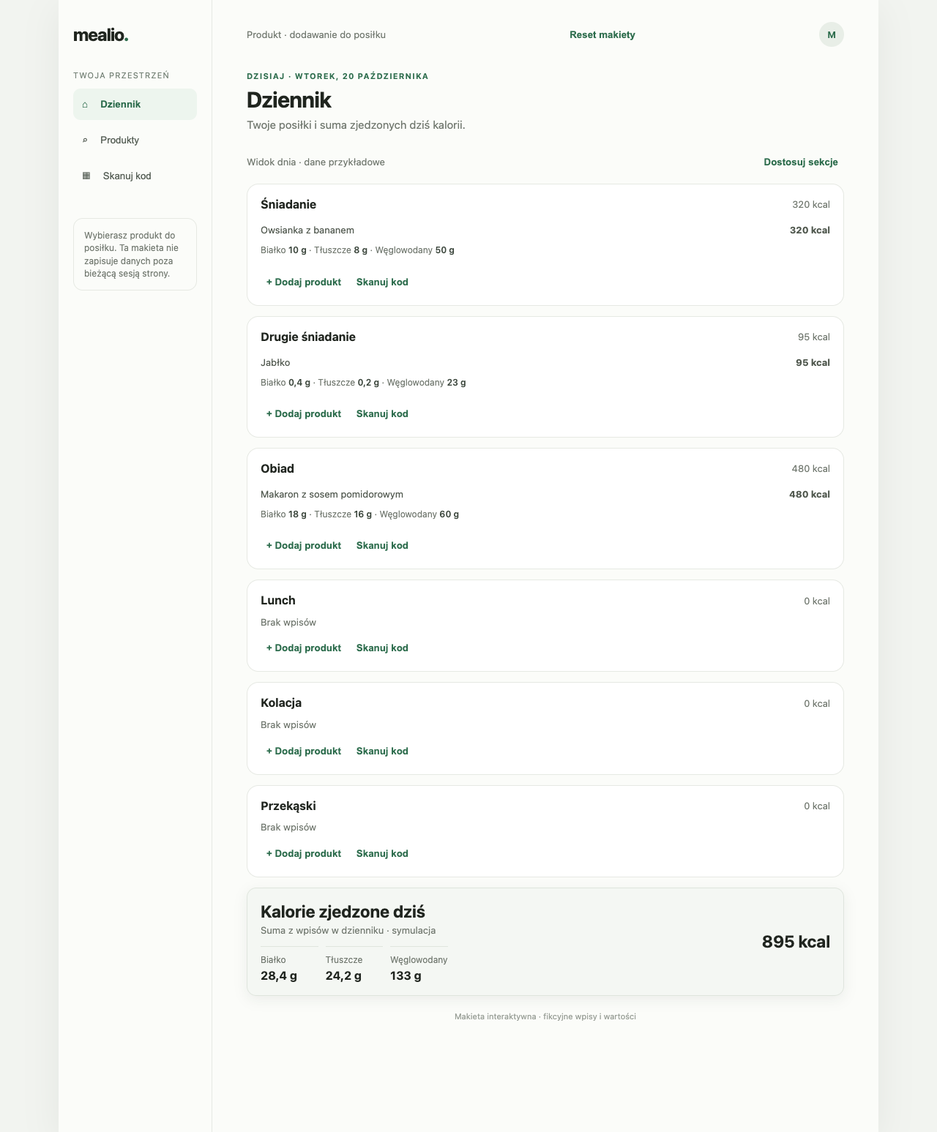
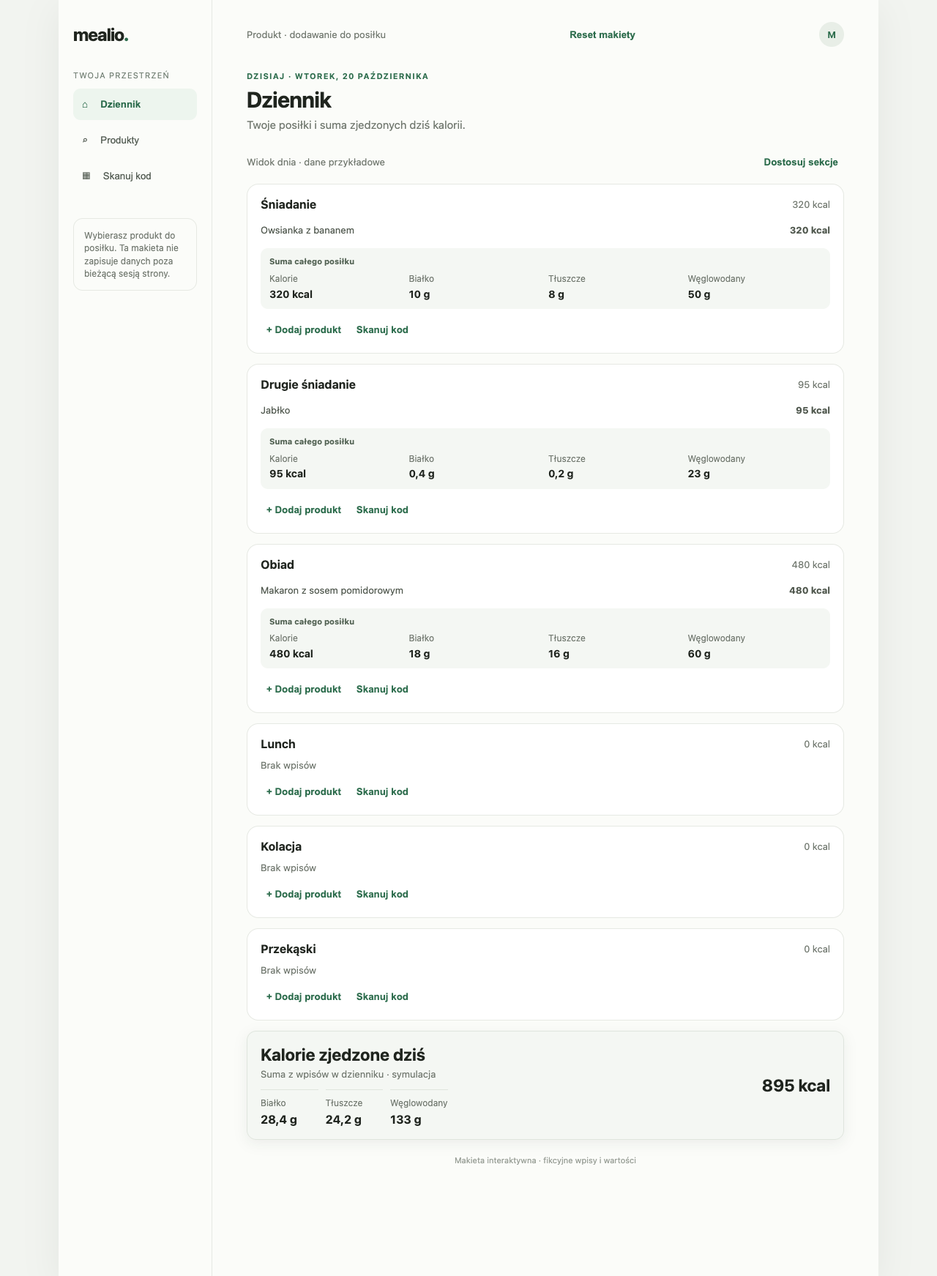
docs(e01): clarify meal nutrient subtotals

diff --git a/.ai/prototypes/discovery/e01-product-journeys/revision-002/index.html b/.ai/prototypes/discovery/e01-product-journeys/revision-002/index.html
@@ -4,7 +4,7 @@
 <meta charset="utf-8"><meta name="viewport" content="width=device-width,initial-scale=1">
 <title>Mealio — dziennik i produkty · makieta</title>
 <style>
-:root{--ink:#20251f;--muted:#71786f;--line:#e6e9e3;--paper:#fbfcf9;--green:#2c6c4c;--soft:#edf5ee;--orange:#fff2dd;--red:#9b4337}*{box-sizing:border-box}body{margin:0;background:#f2f4f0;color:var(--ink);font:15px/1.45 -apple-system,BlinkMacSystemFont,"Segoe UI",sans-serif}.app{max-width:1120px;min-height:100vh;margin:auto;display:grid;grid-template-columns:210px 1fr;background:var(--paper);box-shadow:0 12px 50px #17271912}.rail{padding:30px 20px;border-right:1px solid var(--line)}.logo{font-size:24px;font-weight:750;letter-spacing:-1px}.logo b{color:var(--green)}.tag{font-size:11px;color:#738075;letter-spacing:.1em;text-transform:uppercase;margin:30px 0 10px}.nav{display:grid;gap:6px}.nav button{border:0;text-align:left;background:transparent;padding:12px;border-radius:10px;color:#555e55;cursor:pointer}.nav button.active,.nav button:hover{background:var(--soft);color:var(--green);font-weight:650}.aside{margin-top:36px;border:1px solid var(--line);border-radius:13px;padding:14px;color:var(--muted);font-size:12px}.main{padding:30px 42px 130px;max-width:900px;width:100%;margin:0 auto}.top{display:flex;justify-content:space-between;align-items:center;color:var(--muted);font-size:13px;margin-bottom:32px}.avatar{width:34px;height:34px;border-radius:50%;background:#e8eee7;display:grid;place-items:center;color:var(--green);font-weight:700}.eyebrow{font-size:11px;font-weight:700;letter-spacing:.1em;color:var(--green);text-transform:uppercase}.title{font-size:30px;line-height:1.15;letter-spacing:-.7px;margin:7px 0}.sub{color:var(--muted);margin:0 0 24px}.card{background:#fff;border:1px solid var(--line);border-radius:16px;padding:20px;margin:14px 0}.row{display:flex;align-items:center;justify-content:space-between;gap:16px}.choices{display:grid;grid-template-columns:1fr 1fr;gap:12px;margin:22px 0}.choice{padding:20px;border:1px solid var(--line);border-radius:15px;background:#fff;text-align:left;cursor:pointer}.choice:hover{border-color:#9dbba2;box-shadow:0 5px 20px #1c39220d}.icon{font-size:23px}.choice strong{display:block;margin:10px 0 3px;font-size:16px}.choice span:last-child,.small{font-size:13px;color:var(--muted)}input,select{font:inherit;border:1px solid #dfe4dd;border-radius:9px;padding:12px;background:#fff;color:var(--ink);width:100%;outline:none}input:focus,select:focus{border-color:#78a186;box-shadow:0 0 0 3px #2c6c4c18}.search{position:relative;margin:18px 0}.search input{padding-left:42px}.search:before{content:'⌕';position:absolute;left:14px;top:7px;font-size:24px;color:#778078}.pill{display:inline-block;background:#f1f3f0;border-radius:99px;padding:4px 9px;font-size:11px;color:#697268;margin:3px}.pill.green{background:var(--soft);color:var(--green)}.pill.amber{background:var(--orange);color:#875a1f}.product{display:grid;grid-template-columns:46px 1fr auto;align-items:center;gap:12px;padding:14px 2px;border-bottom:1px solid #eef0ec}.product:last-child{border:0}.food{width:44px;height:44px;border-radius:11px;background:#f4f1e8;display:grid;place-items:center;font-size:23px}.btn{border:0;border-radius:9px;padding:11px 15px;background:var(--green);color:#fff;font-weight:650;cursor:pointer}.btn:hover{filter:brightness(.94)}.btn.secondary{background:#f0f3ef;color:var(--ink)}.btn.text{background:transparent;color:var(--green);padding:8px}.btn.danger{background:#fff0ed;color:var(--red)}.actions{display:flex;gap:9px;flex-wrap:wrap;margin-top:18px}.field{margin:14px 0}.field label{font-size:12px;font-weight:650;display:block;margin-bottom:6px}.grid2{display:grid;grid-template-columns:1fr 1fr;gap:12px}.notice{border-radius:11px;padding:13px 15px;background:#f1f5f0;color:#3d6149;font-size:13px;margin:14px 0}.notice.warn{background:#fff5e7;color:#845a22}.notice.error{background:#fff0ed;color:#984c3f}.sectiontitle{font-size:16px;font-weight:700;margin:22px 0 7px}.divider{height:1px;background:var(--line);margin:18px 0}.tagline{color:var(--muted);font-size:12px}.steps{display:flex;gap:7px;margin:18px 0}.step{font-size:11px;padding:6px 10px;border-radius:99px;background:#f0f2ef;color:#737b71}.step.on{background:var(--soft);color:var(--green);font-weight:650}.back{border:0;background:none;color:var(--muted);padding:0;margin:0 0 18px;cursor:pointer}.modalback{position:fixed;inset:0;background:#18251d66;display:grid;place-items:center;padding:20px}.modal{max-width:490px;width:100%;background:white;border-radius:16px;padding:23px;box-shadow:0 20px 60px #11221630}.modal h2{margin:0 0 7px}.footer{font-size:11px;color:#999f97;text-align:center;padding:20px}.meal-card{padding:16px 18px}.meal-head{display:flex;align-items:center;justify-content:space-between;gap:10px}.meal-head h2{font-size:16px;margin:0}.meal-items{padding:8px 0 3px}.diary-item{display:flex;justify-content:space-between;padding:6px 0;color:#50584e;font-size:13px}.meal-actions{display:flex;gap:5px;margin-top:8px}.daily-summary{position:relative;margin-top:14px;display:flex;align-items:center;justify-content:space-between;border:1px solid #dfe5dd;border-radius:13px;background:#f4f7f3f5;backdrop-filter:blur(8px);padding:15px 18px;box-shadow:0 5px 18px #12201612}.daily-summary strong{font-size:23px}.daily-macros{display:grid;grid-template-columns:repeat(3,minmax(0,1fr));gap:10px;margin-top:12px}.daily-macro{border-top:1px solid #dfe5dd;padding-top:9px;color:var(--muted);font-size:12px}.daily-macro strong{display:block;color:var(--ink);font-size:16px;margin-top:2px}.meal-macros{font-size:12px;color:var(--muted);padding:3px 0 8px}.meal-macros strong{color:#39443a;font-weight:600}.settings-row{display:grid;grid-template-columns:1fr auto;gap:8px;margin:9px 0}.settings-row button{padding:8px}.settings-note{font-size:12px;color:var(--muted);margin-top:10px}.hidden{display:none!important}@media(max-width:720px){.app{display:block}.rail{display:none}.main{padding:20px 16px 130px}.daily-summary{padding:12px 14px}.daily-macros{gap:6px}.daily-macro{font-size:11px}.daily-macro strong{font-size:14px}.daily-summary strong{font-size:20px}.title{font-size:27px}.choices{grid-template-columns:1fr}.grid2{grid-template-columns:1fr}.product{grid-template-columns:42px 1fr}.product .btn{grid-column:2;justify-self:start}.top{margin-bottom:25px}}
+:root{--ink:#20251f;--muted:#71786f;--line:#e6e9e3;--paper:#fbfcf9;--green:#2c6c4c;--soft:#edf5ee;--orange:#fff2dd;--red:#9b4337}*{box-sizing:border-box}body{margin:0;background:#f2f4f0;color:var(--ink);font:15px/1.45 -apple-system,BlinkMacSystemFont,"Segoe UI",sans-serif}.app{max-width:1120px;min-height:100vh;margin:auto;display:grid;grid-template-columns:210px 1fr;background:var(--paper);box-shadow:0 12px 50px #17271912}.rail{padding:30px 20px;border-right:1px solid var(--line)}.logo{font-size:24px;font-weight:750;letter-spacing:-1px}.logo b{color:var(--green)}.tag{font-size:11px;color:#738075;letter-spacing:.1em;text-transform:uppercase;margin:30px 0 10px}.nav{display:grid;gap:6px}.nav button{border:0;text-align:left;background:transparent;padding:12px;border-radius:10px;color:#555e55;cursor:pointer}.nav button.active,.nav button:hover{background:var(--soft);color:var(--green);font-weight:650}.aside{margin-top:36px;border:1px solid var(--line);border-radius:13px;padding:14px;color:var(--muted);font-size:12px}.main{padding:30px 42px 130px;max-width:900px;width:100%;margin:0 auto}.top{display:flex;justify-content:space-between;align-items:center;color:var(--muted);font-size:13px;margin-bottom:32px}.avatar{width:34px;height:34px;border-radius:50%;background:#e8eee7;display:grid;place-items:center;color:var(--green);font-weight:700}.eyebrow{font-size:11px;font-weight:700;letter-spacing:.1em;color:var(--green);text-transform:uppercase}.title{font-size:30px;line-height:1.15;letter-spacing:-.7px;margin:7px 0}.sub{color:var(--muted);margin:0 0 24px}.card{background:#fff;border:1px solid var(--line);border-radius:16px;padding:20px;margin:14px 0}.row{display:flex;align-items:center;justify-content:space-between;gap:16px}.choices{display:grid;grid-template-columns:1fr 1fr;gap:12px;margin:22px 0}.choice{padding:20px;border:1px solid var(--line);border-radius:15px;background:#fff;text-align:left;cursor:pointer}.choice:hover{border-color:#9dbba2;box-shadow:0 5px 20px #1c39220d}.icon{font-size:23px}.choice strong{display:block;margin:10px 0 3px;font-size:16px}.choice span:last-child,.small{font-size:13px;color:var(--muted)}input,select{font:inherit;border:1px solid #dfe4dd;border-radius:9px;padding:12px;background:#fff;color:var(--ink);width:100%;outline:none}input:focus,select:focus{border-color:#78a186;box-shadow:0 0 0 3px #2c6c4c18}.search{position:relative;margin:18px 0}.search input{padding-left:42px}.search:before{content:'⌕';position:absolute;left:14px;top:7px;font-size:24px;color:#778078}.pill{display:inline-block;background:#f1f3f0;border-radius:99px;padding:4px 9px;font-size:11px;color:#697268;margin:3px}.pill.green{background:var(--soft);color:var(--green)}.pill.amber{background:var(--orange);color:#875a1f}.product{display:grid;grid-template-columns:46px 1fr auto;align-items:center;gap:12px;padding:14px 2px;border-bottom:1px solid #eef0ec}.product:last-child{border:0}.food{width:44px;height:44px;border-radius:11px;background:#f4f1e8;display:grid;place-items:center;font-size:23px}.btn{border:0;border-radius:9px;padding:11px 15px;background:var(--green);color:#fff;font-weight:650;cursor:pointer}.btn:hover{filter:brightness(.94)}.btn.secondary{background:#f0f3ef;color:var(--ink)}.btn.text{background:transparent;color:var(--green);padding:8px}.btn.danger{background:#fff0ed;color:var(--red)}.actions{display:flex;gap:9px;flex-wrap:wrap;margin-top:18px}.field{margin:14px 0}.field label{font-size:12px;font-weight:650;display:block;margin-bottom:6px}.grid2{display:grid;grid-template-columns:1fr 1fr;gap:12px}.notice{border-radius:11px;padding:13px 15px;background:#f1f5f0;color:#3d6149;font-size:13px;margin:14px 0}.notice.warn{background:#fff5e7;color:#845a22}.notice.error{background:#fff0ed;color:#984c3f}.sectiontitle{font-size:16px;font-weight:700;margin:22px 0 7px}.divider{height:1px;background:var(--line);margin:18px 0}.tagline{color:var(--muted);font-size:12px}.steps{display:flex;gap:7px;margin:18px 0}.step{font-size:11px;padding:6px 10px;border-radius:99px;background:#f0f2ef;color:#737b71}.step.on{background:var(--soft);color:var(--green);font-weight:650}.back{border:0;background:none;color:var(--muted);padding:0;margin:0 0 18px;cursor:pointer}.modalback{position:fixed;inset:0;background:#18251d66;display:grid;place-items:center;padding:20px}.modal{max-width:490px;width:100%;background:white;border-radius:16px;padding:23px;box-shadow:0 20px 60px #11221630}.modal h2{margin:0 0 7px}.footer{font-size:11px;color:#999f97;text-align:center;padding:20px}.meal-card{padding:16px 18px}.meal-head{display:flex;align-items:center;justify-content:space-between;gap:10px}.meal-head h2{font-size:16px;margin:0}.meal-items{padding:8px 0 3px}.diary-item{display:flex;justify-content:space-between;padding:6px 0;color:#50584e;font-size:13px}.meal-actions{display:flex;gap:5px;margin-top:8px}.daily-summary{position:relative;margin-top:14px;display:flex;align-items:center;justify-content:space-between;border:1px solid #dfe5dd;border-radius:13px;background:#f4f7f3f5;backdrop-filter:blur(8px);padding:15px 18px;box-shadow:0 5px 18px #12201612}.daily-summary strong{font-size:23px}.daily-macros{display:grid;grid-template-columns:repeat(3,minmax(0,1fr));gap:10px;margin-top:12px}.daily-macro{border-top:1px solid #dfe5dd;padding-top:9px;color:var(--muted);font-size:12px}.daily-macro strong{display:block;color:var(--ink);font-size:16px;margin-top:2px}.meal-summary{margin:9px 0 2px;padding:10px 12px;border-radius:10px;background:#f4f7f3}.meal-summary-title{font-size:11px;font-weight:700;color:#536354;margin-bottom:7px}.meal-summary-grid{display:grid;grid-template-columns:repeat(4,minmax(0,1fr));gap:8px}.meal-summary-value{font-size:12px;color:var(--muted)}.meal-summary-value strong{display:block;color:var(--ink);font-size:14px;margin-top:2px}.settings-row{display:grid;grid-template-columns:1fr auto;gap:8px;margin:9px 0}.settings-row button{padding:8px}.settings-note{font-size:12px;color:var(--muted);margin-top:10px}.hidden{display:none!important}@media(max-width:720px){.app{display:block}.rail{display:none}.main{padding:20px 16px 130px}.daily-summary{padding:12px 14px}.daily-macros{gap:6px}.daily-macro{font-size:11px}.daily-macro strong{font-size:14px}.meal-summary-grid{grid-template-columns:repeat(2,minmax(0,1fr))}.daily-summary strong{font-size:20px}.title{font-size:27px}.choices{grid-template-columns:1fr}.grid2{grid-template-columns:1fr}.product{grid-template-columns:42px 1fr}.product .btn{grid-column:2;justify-self:start}.top{margin-bottom:25px}}
 </style></head>
 <body><div class="app"><aside class="rail"><div class="logo">mealio<b>.</b></div><div class="tag">Twoja przestrzeń</div><nav class="nav"><button class="active" onclick="show('home')">⌂　 Dziennik</button><button onclick="show('search')">⌕　 Produkty</button><button onclick="show('scan')">▦　 Skanuj kod</button></nav><div class="aside">Wybierasz produkt do posiłku. Ta makieta nie zapisuje danych poza bieżącą sesją strony.</div></aside><main class="main"><div class="top"><span>Produkt · dodawanie do posiłku</span><button class="btn text" onclick="resetPrototype()">Reset makiety</button><span class="avatar" aria-label="Profil przykładowy">M</span></div>
 <section id="home" data-screen><div class="eyebrow">DZISIAJ · WTOREK, 20 PAŹDZIERNIKA</div><h1 class="title">Dziennik</h1><p class="sub">Twoje posiłki i suma zjedzonych dziś kalorii.</p><div class="row"><span class="small">Widok dnia · dane przykładowe</span><button class="btn text" onclick="openManage()">Dostosuj sekcje</button></div><div id="meal-list"></div><div class="daily-summary"><div><strong>Kalorie zjedzone dziś</strong><div class="small">Suma z wpisów w dzienniku · symulacja</div><div class="daily-macros"><div class="daily-macro">Białko<strong id="protein-total">—</strong></div><div class="daily-macro">Tłuszcze<strong id="fat-total">—</strong></div><div class="daily-macro">Węglowodany<strong id="carbs-total">—</strong></div></div></div><strong id="calorie-total">895 kcal</strong></div><div class="footer">Makieta interaktywna · fikcyjne wpisy i wartości</div></section>
@@ -21,7 +21,7 @@ let meals=['Śniadanie','Drugie śniadanie','Obiad','Lunch','Kolacja','Przekąsk
 function show(id,history=true){if(id==='manage')renderMealSettings();let target=document.getElementById(id);if(!target||!target.matches('[data-screen]')){document.querySelectorAll('main section[data-screen]').forEach(s=>s.classList.add('hidden'));document.getElementById('unknown').classList.remove('hidden');if(history)location.hash='unknown';document.querySelector('#unknown h2').focus();return}document.getElementById('unknown').classList.add('hidden');document.querySelectorAll('main section[data-screen]').forEach(s=>s.classList.add('hidden'));target.classList.remove('hidden');if(history&&location.hash!=='#'+id)location.hash=id;let h=target.querySelector('h1');if(h){h.setAttribute('tabindex','-1');h.focus()}window.scrollTo(0,0)}
 window.addEventListener('popstate',()=>show(location.hash.slice(1)||'home',false));window.addEventListener('hashchange',()=>{if(location.hash)show(location.hash.slice(1),false)});function resetPrototype(){document.querySelectorAll('input').forEach(i=>i.value='');document.getElementById('scenario').value='known';document.getElementById('formerror').classList.add('hidden');meals=[...defaultMeals];diary=[{meal:'Śniadanie',name:'Owsianka z bananem',kcal:320,protein:10,fat:8,carbs:50},{meal:'Drugie śniadanie',name:'Jabłko',kcal:95,protein:0.4,fat:0.2,carbs:23},{meal:'Obiad',name:'Makaron z sosem pomidorowym',kcal:480,protein:18,fat:16,carbs:60}];selectedMeal='Śniadanie';renderDiary();show('home');document.getElementById('status').textContent='Makieta zresetowana.'}
 function startAdd(meal){selectedMeal=meal;document.getElementById('search-title').textContent='Dodaj do: '+meal;show('search')}function startScan(meal){selectedMeal=meal;show('scan')}function picked(name){let isPotato=name.toLowerCase().includes('ziemniaki');let isEgg=name.toLowerCase().includes('jajko');let kcal=isPotato?152:isEgg?155:100;let macros=isPotato?{protein:2.4,fat:5.1,carbs:23}:isEgg?{protein:13,fat:11,carbs:1.1}:{protein:null,fat:null,carbs:null};diary.push({meal:selectedMeal,name:name,kcal:kcal,...macros});renderDiary();document.getElementById('pickedname').textContent=name+' · '+kcal+' kcal';document.getElementById('pickedmeal').textContent=selectedMeal+' · dzisiaj';show('done')}
-function macroText(entries,key){if(!entries.length||entries.some(x=>x[key]==null))return '—';let value=entries.reduce((sum,x)=>sum+x[key],0);return (Number.isInteger(value)?value:value.toFixed(1).replace('.',','))+' g'}function renderDiary(){let root=document.getElementById('meal-list');if(!root)return;root.replaceChildren();for(const meal of meals){let entries=diary.filter(x=>x.meal===meal);let total=entries.reduce((sum,x)=>sum+x.kcal,0);let card=document.createElement('div');card.className='card meal-card';let head=document.createElement('div');head.className='meal-head';let title=document.createElement('h2');title.textContent=meal;let kcal=document.createElement('span');kcal.className='small';kcal.textContent=total+' kcal';head.append(title,kcal);card.append(head);let items=document.createElement('div');items.className='meal-items';if(entries.length){for(const item of entries){let row=document.createElement('div');row.className='diary-item';let name=document.createElement('span');name.textContent=item.name;let value=document.createElement('strong');value.textContent=item.kcal+' kcal';row.append(name,value);items.append(row)}let macros=document.createElement('div');macros.className='meal-macros';macros.textContent='Białko ';let p=document.createElement('strong');p.textContent=macroText(entries,'protein');let sep1=document.createTextNode(' · Tłuszcze ');let f=document.createElement('strong');f.textContent=macroText(entries,'fat');let sep2=document.createTextNode(' · Węglowodany ');let c=document.createElement('strong');c.textContent=macroText(entries,'carbs');macros.append(p,sep1,f,sep2,c);items.append(macros)}else{let empty=document.createElement('div');empty.className='small';empty.textContent='Brak wpisów';items.append(empty)}card.append(items);let actions=document.createElement('div');actions.className='meal-actions';let add=document.createElement('button');add.className='btn text';add.textContent='+ Dodaj produkt';add.onclick=()=>startAdd(meal);let scan=document.createElement('button');scan.className='btn text';scan.textContent='Skanuj kod';scan.onclick=()=>startScan(meal);actions.append(add,scan);card.append(actions);root.append(card)}let total=diary.reduce((sum,x)=>sum+x.kcal,0);document.getElementById('calorie-total').textContent=total+' kcal';document.getElementById('protein-total').textContent=macroText(diary,'protein');document.getElementById('fat-total').textContent=macroText(diary,'fat');document.getElementById('carbs-total').textContent=macroText(diary,'carbs')}
+function macroText(entries,key){if(!entries.length||entries.some(x=>x[key]==null))return '—';let value=entries.reduce((sum,x)=>sum+x[key],0);return (Number.isInteger(value)?value:value.toFixed(1).replace('.',','))+' g'}function renderDiary(){let root=document.getElementById('meal-list');if(!root)return;root.replaceChildren();for(const meal of meals){let entries=diary.filter(x=>x.meal===meal);let total=entries.reduce((sum,x)=>sum+x.kcal,0);let card=document.createElement('div');card.className='card meal-card';let head=document.createElement('div');head.className='meal-head';let title=document.createElement('h2');title.textContent=meal;let kcal=document.createElement('span');kcal.className='small';kcal.textContent=total+' kcal';head.append(title,kcal);card.append(head);let items=document.createElement('div');items.className='meal-items';if(entries.length){for(const item of entries){let row=document.createElement('div');row.className='diary-item';let name=document.createElement('span');name.textContent=item.name;let value=document.createElement('strong');value.textContent=item.kcal+' kcal';row.append(name,value);items.append(row)}let summary=document.createElement('div');summary.className='meal-summary';let summaryTitle=document.createElement('div');summaryTitle.className='meal-summary-title';summaryTitle.textContent='Suma całego posiłku';let summaryGrid=document.createElement('div');summaryGrid.className='meal-summary-grid';for(const [label,value] of [['Kalorie',total+' kcal'],['Białko',macroText(entries,'protein')],['Tłuszcze',macroText(entries,'fat')],['Węglowodany',macroText(entries,'carbs')]]){let metric=document.createElement('div');metric.className='meal-summary-value';metric.textContent=label;let metricValue=document.createElement('strong');metricValue.textContent=value;metric.append(metricValue);summaryGrid.append(metric)}summary.append(summaryTitle,summaryGrid);items.append(summary)}else{let empty=document.createElement('div');empty.className='small';empty.textContent='Brak wpisów';items.append(empty)}card.append(items);let actions=document.createElement('div');actions.className='meal-actions';let add=document.createElement('button');add.className='btn text';add.textContent='+ Dodaj produkt';add.onclick=()=>startAdd(meal);let scan=document.createElement('button');scan.className='btn text';scan.textContent='Skanuj kod';scan.onclick=()=>startScan(meal);actions.append(add,scan);card.append(actions);root.append(card)}let total=diary.reduce((sum,x)=>sum+x.kcal,0);document.getElementById('calorie-total').textContent=total+' kcal';document.getElementById('protein-total').textContent=macroText(diary,'protein');document.getElementById('fat-total').textContent=macroText(diary,'fat');document.getElementById('carbs-total').textContent=macroText(diary,'carbs')}
 function openManage(){show('manage')}function renderMealSettings(){let root=document.getElementById('meal-settings');root.replaceChildren();for(let i=0;i<meals.length;i++){let row=document.createElement('div');row.className='settings-row';let input=document.createElement('input');input.value=meals[i];input.setAttribute('aria-label','Nazwa sekcji '+(i+1));input.dataset.index=i;input.dataset.original=meals[i];let remove=document.createElement('button');remove.className='btn secondary';remove.textContent='Usuń';remove.disabled=diary.some(x=>x.meal===meals[i])||meals.length===1;remove.title=remove.disabled?'Sekcja z wpisami nie może zostać usunięta w tej makiecie.':'';remove.onclick=()=>{meals.splice(i,1);renderMealSettings()};row.append(input,remove);root.append(row)}}function addMeal(){let input=document.getElementById('new-meal'),name=input.value.trim();if(!name){document.getElementById('settings-error').textContent='Wpisz nazwę nowej sekcji.';return}if(meals.some(x=>x.toLowerCase()===name.toLowerCase())){document.getElementById('settings-error').textContent='Taka sekcja już istnieje.';return}let pending=[...document.querySelectorAll('#meal-settings input')].map(x=>x.value);meals.push(name);input.value='';document.getElementById('settings-error').textContent='Dodano sekcję. Zapisz zmiany, aby wrócić do dziennika.';renderMealSettings();[...document.querySelectorAll('#meal-settings input')].forEach((x,i)=>{if(i<pending.length)x.value=pending[i]})}function saveMeals(){let vals=[...document.querySelectorAll('#meal-settings input')].map(x=>x.value.trim());if(vals.some(x=>!x)||new Set(vals.map(x=>x.toLowerCase())).size!==vals.length){document.getElementById('settings-error').textContent='Nazwy muszą być uzupełnione i unikalne.';return}let oldNames=[...document.querySelectorAll('#meal-settings input')].map(x=>x.dataset.original);for(let entry of diary){let idx=oldNames.indexOf(entry.meal);if(idx>=0&&vals[idx])entry.meal=vals[idx]}meals=vals;renderDiary();show('home')}
 function filterProducts(){let q=document.getElementById('q').value.toLowerCase(),rows=[...document.querySelectorAll('.product[data-search]')],n=0;rows.forEach(r=>{let ok=r.dataset.search.includes(q);r.classList.toggle('hidden',!ok);if(ok)n++});document.getElementById('count').textContent=n+' '+(n===1?'produkt':'produkty');document.getElementById('empty').classList.toggle('hidden',n!==0)}
 function createProduct(){let n=document.getElementById('newname').value.trim();if(!n){document.getElementById('formerror').classList.remove('hidden');document.getElementById('newname').focus();return}document.getElementById('formerror').classList.add('hidden');document.getElementById('detailname').textContent=n;document.querySelector('#detail .sub').textContent=(document.getElementById('brand').value||'Produkt własny')+' · '+(document.getElementById('store').value||'bez przypisanego sklepu')+' · wpisane ręcznie';show('detail')}

diff --git a/.ai/prototypes/discovery/e01-product-journeys/revision-002/README.md b/.ai/prototypes/discovery/e01-product-journeys/revision-002/README.md
@@ -7,7 +7,7 @@
 
 ## Co się zmieniło względem revision-001
 
-Ekran początkowy przedstawia dziennik dnia zamiast samego wejścia do katalogu. Zawiera sześć domyślnych sekcji, fikcyjne wpisy oraz podsumowanie dnia z kaloriami i sumą białka, tłuszczów oraz węglowodanów. Makra są widoczne przy posiłkach i w sumie dnia. Dodanie produktu z sekcji zachowuje wybrany posiłek i aktualizuje dzienną sumę w pamięci makiety. Dodano ekran personalizacji nazw/liczby sekcji. Wcześniejsze ręczne dodanie, rozróżnianie produktów, skan, obsługa błędów dostawcy, konflikt GTIN i korekta pozostają dostępne.
+Ekran początkowy przedstawia dziennik dnia zamiast samego wejścia do katalogu. Zawiera sześć domyślnych sekcji, fikcyjne wpisy oraz podsumowanie dnia z kaloriami i sumą białka, tłuszczów oraz węglowodanów. Pod każdym posiłkiem jest teraz osobny, wyróżniony panel „Suma całego posiłku” z kcal, białkiem, tłuszczami i węglowodanami; podsumowanie dnia pokazuje te same cztery wartości dla całego dnia. Dodanie produktu z sekcji zachowuje wybrany posiłek i aktualizuje dzienną sumę w pamięci makiety. Dodano ekran personalizacji nazw/liczby sekcji. Wcześniejsze ręczne dodanie, rozróżnianie produktów, skan, obsługa błędów dostawcy, konflikt GTIN i korekta pozostają dostępne.
 
 ## Uczestnik, granice i reguły
 
@@ -58,7 +58,7 @@ Otwórz lokalnie `index.html` w przeglądarce. „Reset makiety” przywraca sze
 
 Sprawdzenie w odizolowanej sesji `agent-browser` na `file://`:
 
-- Dziennik na starcie: sześć sekcji, trzy fikcyjne wpisy, 895 kcal oraz 28,4 g białka, 24,2 g tłuszczów i 133 g węglowodanów; `evidence/diary-home.png`. Makra są też rozbite przy każdym posiłku.
+- Dziennik na starcie: sześć sekcji, trzy fikcyjne wpisy, 895 kcal oraz 28,4 g białka, 24,2 g tłuszczów i 133 g węglowodanów; `evidence/diary-home.png`. Każdy niepusty posiłek ma odrębny panel „Suma całego posiłku” z czterema wartościami; zrzut `evidence/diary-home.png` potwierdza czytelność panelu przy śniadaniu, drugim śniadaniu i obiedzie.
 - Dodanie ziemniaków z sekcji Obiad zachowuje kontekst sekcji, wraca do dziennika i aktualizuje sumy: 895 → 1047 kcal, białko 28,4 → 30,8 g, tłuszcze 24,2 → 29,3 g, węglowodany 133 → 156 g; `evidence/diary-after-add.png`.
 - Personalizacja: zmiana „Lunch” na „Późny posiłek” i dodanie „Koktajle” zachowują edycje i odświeżają sekcje; `evidence/customize-sections.png`.
 - Poprzednie stany wyszukiwarki, konflikt GTIN, korekty i awarii są odtworzone w revision-001. Ta rewizja pozostaje źródłem dowodów dla zachowań niezmienionych.
